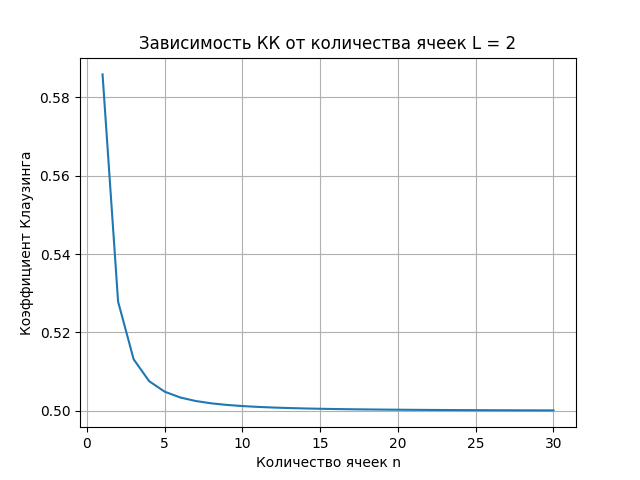
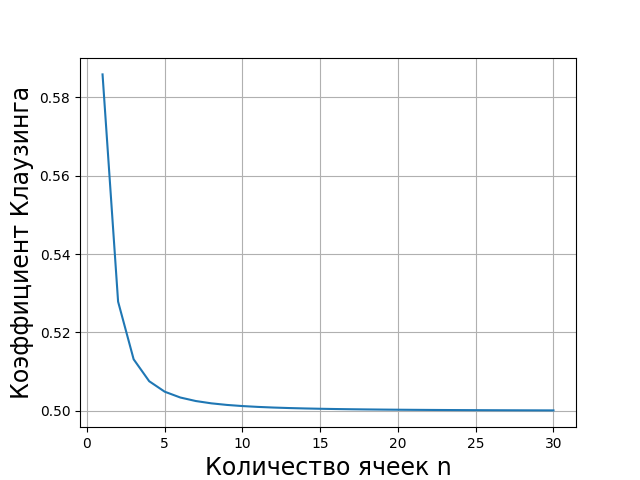
transfer code to main.py, update graphs

diff --git a/main.py b/main.py
@@ -1,9 +1,59 @@
 from sep.round import RoundSeparator
+from matplotlib import pyplot as plt
+from numpy.typing import NDArray
+from graphs import Graph
+import numpy as np
 
-R, L, n = list(map(float, input().split()))
-n = int(n)
 
-if __name__ == "main":
-    sep = RoundSeparator(R,L,n)
-    coeffs = sep.calc_ac()
-    k = sep.calc_clausing(coeffs)
+def plot_num_of_cells(R, L, nums: NDArray[int]):
+    def calc_dependence():
+        Y = [0.0] * len(nums)
+        for i in range(len(nums)):
+            s = RoundSeparator(R, L, nums[i])
+            coeffs = s.calc_ac()
+            Y[i] = s.calc_clausing(coeffs)
+        return np.array(Y)
+
+    plt.xlabel("Количество ячеек n", size=17)
+    plt.ylabel("Коэффициент Клаузинга", size=17)
+    plt.plot(nums, calc_dependence())
+    plt.grid()
+    plt.show()
+
+
+def plot_len(R, lens, nums, k: NDArray | None = None):
+    def calc_dependence(n):
+        Y = [0.0] * len(lens)
+        for i in range(len(lens)):
+            s = RoundSeparator(R, lens[i], n)
+            coeffs = s.calc_ac()
+            Y[i] = s.calc_clausing(coeffs)
+        return np.array(Y)
+
+    for num in nums:
+        plt.plot(lens, calc_dependence(num), label=f"{num}")
+    g = Graph()
+    if k is not None and len(k):
+        plt.plot(lens, k, label=f"эксперимент")
+    plt.xlabel("Длина канала L/R", size=17)
+    plt.ylabel("Коэффициент Клаузинга", size=17)
+    plt.legend(title="Количество колец")
+    plt.grid()
+    plt.show()
+
+
+def create_x() -> NDArray:
+    X = np.linspace(0.1, 2, 20)
+    X = X[:-1]
+    X = list(X) + list(np.linspace(2, 5, 7))
+    X = X[:-1]
+    X = list(X) + list(np.linspace(5, 10, 6))
+    return np.array(X)
+
+
+x = np.arange(1, 31)
+plot_num_of_cells(1, 2, x)
+
+x = np.arange(1, 150)
+#plot_len(1, x, np.array([3, 15, 150, 600]))
+plot_len(0.5, create_x(), np.arange(1, 9, 2), Graph().k[1:])

diff --git a/tests/time.py b/tests/time.py
@@ -1,23 +1,10 @@
+from sep.round import RoundSeparator
 from decimal import Decimal
 from tube import Tube
 import time
 
 t_1 = time.perf_counter()
-t = Tube(1, 1, 1, Decimal(0.05))
+s = RoundSeparator(10, 20, 10000)
+k = s.calc_clausing(s.calc_ac())
 t_2 = time.perf_counter()
-print("Инстанцирование и разбиение:", t_2 - t_1, "s")
-
-t_1 = time.perf_counter()
-coeffs = t.calc_angular_coeffs()
-t_2 = time.perf_counter()
-print("Расчет коэффициентов:", t_2 - t_1, "s")
-
-t_1 = time.perf_counter()
-ans = t.solve_sle(coeffs)
-t_2 = time.perf_counter()
-print("Решение СЛУ:", t_2 - t_1, "s")
-
-t_1 = time.perf_counter()
-k = t.calc_clausing(coeffs)
-t_2 = time.perf_counter()
-print("Расчет КК:", t_2 - t_1, "s")
+print(f"Расчет КК(время с начала запуска при n={s._count_cells}):", t_2 - t_1, "s")
